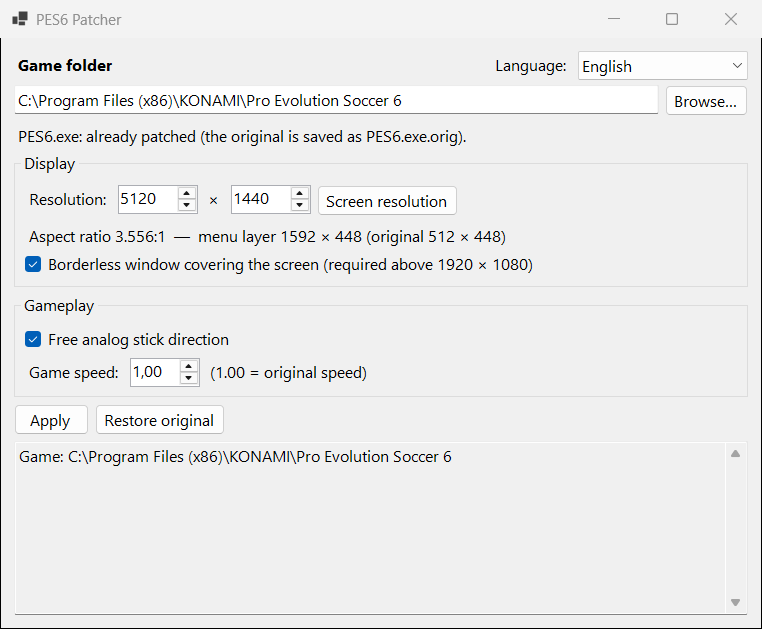
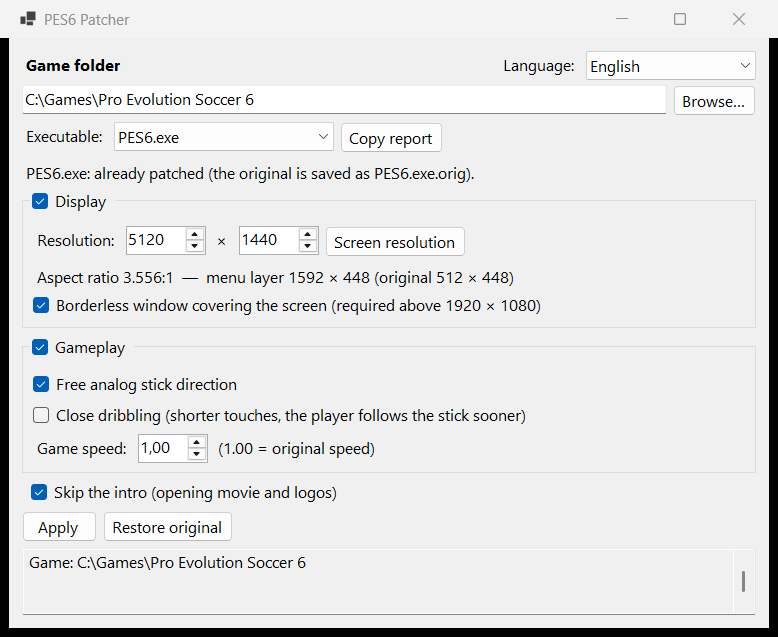
Update the README for 1.6
- tagline: free direction including dribbling, close dribbling, intro skip
- usage: Skip the intro can be unchecked too; the exe is always rebuilt
  from the original backup, so options can be changed and re-applied
- tested build: what was tested in game since 1.2
- limitations: close dribbling with weak dribblers, two players on one PC
- new screenshots (English and French) of the current window

Changed region(s): [[0.0, 0.0, 1.0, 1.0], [0.9357, 0.0, 0.9659, 0.0604]]

diff --git a/README.md b/README.md
@@ -2,7 +2,7 @@
 
 *English | [Français](README.fr.md)*
 
-Patcher for **Pro Evolution Soccer 6 (PC)**: widescreen display without stretching (16:9, 21:9, 32:9…) and freer movement with the analog stick.
+Patcher for **Pro Evolution Soccer 6 (PC)**: widescreen display without stretching (16:9, 21:9, 32:9…), free analog stick movement (including dribbling), optional close dribbling, and no intro at startup.
 
 ![PES6 Patcher](docs/app.png)
 
@@ -34,7 +34,9 @@ The rest of the gameplay is unchanged.
 1. Close PES6 and `settings.exe`.
 2. Run `PES6Patcher.exe`. It asks for administrator rights, because the game is installed in `Program Files`.
 3. Check the game folder (detected automatically), the executable and the resolution (the screen's by default).
-4. Choose the options, then click **Apply**. Each group (**Display**, **Gameplay**) can be unchecked: to change only the gameplay, uncheck **Display** and `kload.cfg`, `lodmixer.dat` and `settings.dat` are left as they are.
+4. Choose the options, then click **Apply**. Each group (**Display**, **Gameplay**) and **Skip the intro** can be unchecked: for example, to change only the gameplay, uncheck **Display** and `kload.cfg`, `lodmixer.dat` and `settings.dat` are left as they are.
+
+The exe is always rebuilt from the original backup, so the options can be changed and applied again at any time.
 
 **Restore original** puts every file back as it was before the first apply.
 
@@ -85,7 +87,7 @@ Builds tested in game:
 
 | SHA-256 | Notes |
 |---|---|
[2 lines of base64/hex data omitted]
 
 Addresses and method details (Ghidra, hardware breakpoints, memory captures) are in [`research/NOTES.md`](research/NOTES.md), in French. The scripts used during the research are in [`research/scripts`](research/scripts).
 
@@ -94,6 +96,8 @@ Addresses and method details (Ghidra, hardware breakpoints, memory captures) are
 - Only one build has been tested in game so far; others are patched if their code matches (see above).
 - Menu backgrounds are 512 units wide: black bars remain on the sides.
 - Free directions apply to an analog stick only. Some less frequent dribble touches and special moves keep the game's own directions.
+- Close dribbling: with players whose dribbling is weak (more irregular touches), the ball can occasionally end up under their feet.
+- With two players on the same PC, the free direction picks the pad whose stick matches the dribble touch; this case has not been tested.
 
 ## Translations
 
